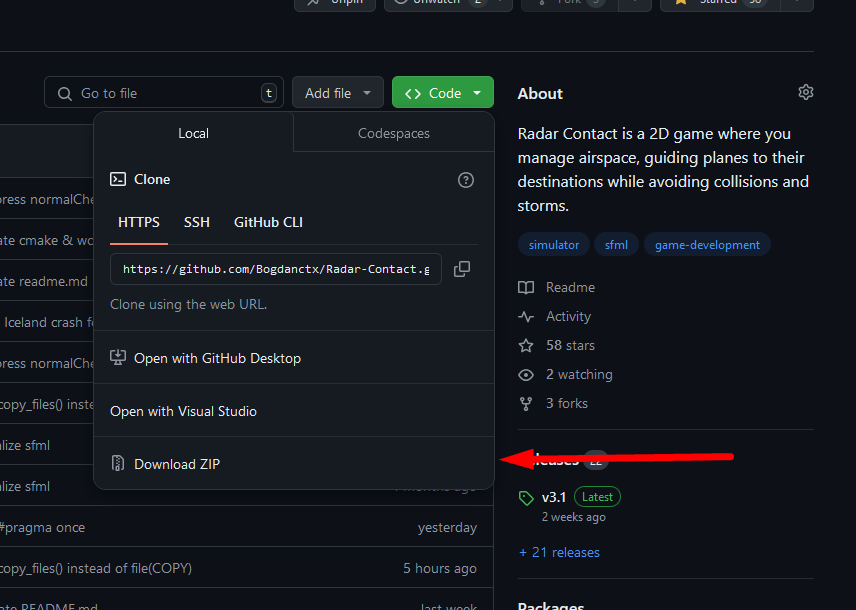
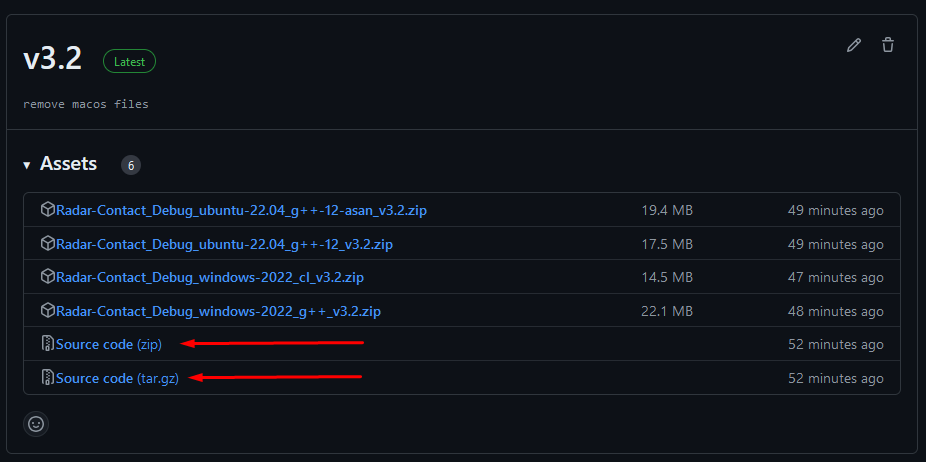
update INSTALLATION.md

diff --git a/INSTALLATION.md b/INSTALLATION.md
@@ -1,9 +1,72 @@
 # Installation guide
 
 ### Prerequisites
-#### 1) [CMake](https://cmake.org/) version at least 3.26. (if you're not compiling the source code skip this)
-#### 2) Radar Contact for Ubuntu requires at least GCC 12.
-#### 3) To run on Linux the following libraries are required: ```libxrandr-dev  libxcursor-dev  libudev-dev  libopenal-dev  libflac-dev  libvorbis-dev libgl1  mesa-dev  libegl1-mesa-dev  libdrm-dev  libgbm-dev  libfreetype6-dev```. To install them paste the lines below in the terminal:
+#### => [CMake](https://cmake.org/) version at least 3.26. (needed if you build the project)
+#### => Radar Contact for Ubuntu requires at least GCC 12.
+#### => For macOS users: Clang 15 & macOS 14.
+
+### If you're not building the project on your local system then you can [go back](https://github.com/bogdanctx/radar-contact).
+
+### Step 1
+
+Press on the latest release available.
+
+![](./installation/step1.png)
+
+### Step 2
+
+Download the source code as **.zip** or **.tar.gz** from [here](https://github.com/Bogdanctx/Radar-Contact/releases) by pressing on one of the last 2 archieves available in the lastest release.
+
+![](./installation/step2.png)
+
+### Step 2
+
+Go inside the extracted folder.
+
+![](./installation/step3.png)
+
+### Step 3
+
+Open your OS terminal inside the extracted folder and type the following 
+command: ```cmake -S . -B build```. Then wait until the whole
+process is finished (it may take a while).
+
+![](./installation/step4.png)
+
+### Step 4
+
+Type in terminal: ```cmake --build build -j6``` (```-j6``` is the number of
+threads used to build the project - this is used to make the process faster).
+
+![](./installation/step5.png)
+
+### Step 5
+
+Install the build with this command: ```cmake --install build```.
+
+![](./installation/step6.png)
+
+### Step 6
+
+The app can be found in this directory: ```install_dir/bin```.
+
+To run the game on <b>Windows</b> use ```start ./install_dir/bin/radar_contact.exe``` <br>
+![](./installation/step7.png)
+<br><br>
+To run the game on <b>Linux</b> use ```./install_dir/bin/radar_contact``` <br>
+![](./installation/step7.1.png)
+
+### Common errors on Linux
+
+1) ```./radar_contact: error while loading shared libraries: libasan.so.8: cannot open shared object file: No such file or directory```
+
+Make sure to have GCC-12 installed. Install GCC-12 using ```sudo apt-get install gcc-12```.
+
+
+2) ```./radar_contact: error while loading shared libraries: libopenal.so.1: cannot open shared object file: No such file or directory```
+
+Make sure that you have these libraries installed: ```libxrandr-dev  libxcursor-dev  libudev-dev  libopenal-dev  libflac-dev  libvorbis-dev libgl1  mesa-dev  libegl1-mesa-dev  libdrm-dev  libgbm-dev  libfreetype6-dev```.
+Paste the commands below in terminal to install them:
 ```
 sudo apt-get update
 sudo apt-get install \
@@ -20,53 +83,3 @@ libgbm-dev \
 libfreetype6-dev \
 xorg
 ```
-
-### If you don't compile the source code then you can [go back](https://github.com/bogdanctx/radar-contact).
-
-### Step 1
-
-Download the source code as ZIP from [here](https://github.com/Bogdanctx/Radar-Contact) by presing the
-green button marked in the image below.
-
-![](./installation/step1.png)
-
-### Step 2
-
-Press <b>Download ZIP</b> button and then extract the content.
-![](./installation/step2.png)
-
-### Step 3
-
-Go inside the extracted folder (the folder name should be Radar-Contact-main)
-
-![](./installation/step3.png)
-
-### Step 4
-
-Open your OS terminal inside the extracted folder and type the following 
-command: ```cmake -S . -B build```. Then wait until the whole
-process is finished (it may take a while).
-
-![](./installation/step4.png)
-
-### Step 5
-
-After the previous step finished type the following command 
-in terminal: ```cmake --build build -j6``` (```-j6``` is the number of
-threads used to build the project - this is used to make the process faster).
-
-![](./installation/step5.png)
-
-### Step 6
-
-Install the build with this command: ```cmake --install build```
-
-![](./installation/step6.png)
-
-### Step 7
-
-To run the game on <b>Windows</b> use ```start ./install_dir/bin/radar_contact.exe``` <br>
-![](./installation/step7.png)
-<br><br>
-To run the game on <b>Linux / macOS</b> use ```./install_dir/bin/radar_contact``` <br>
-![](./installation/step7.1.png)
